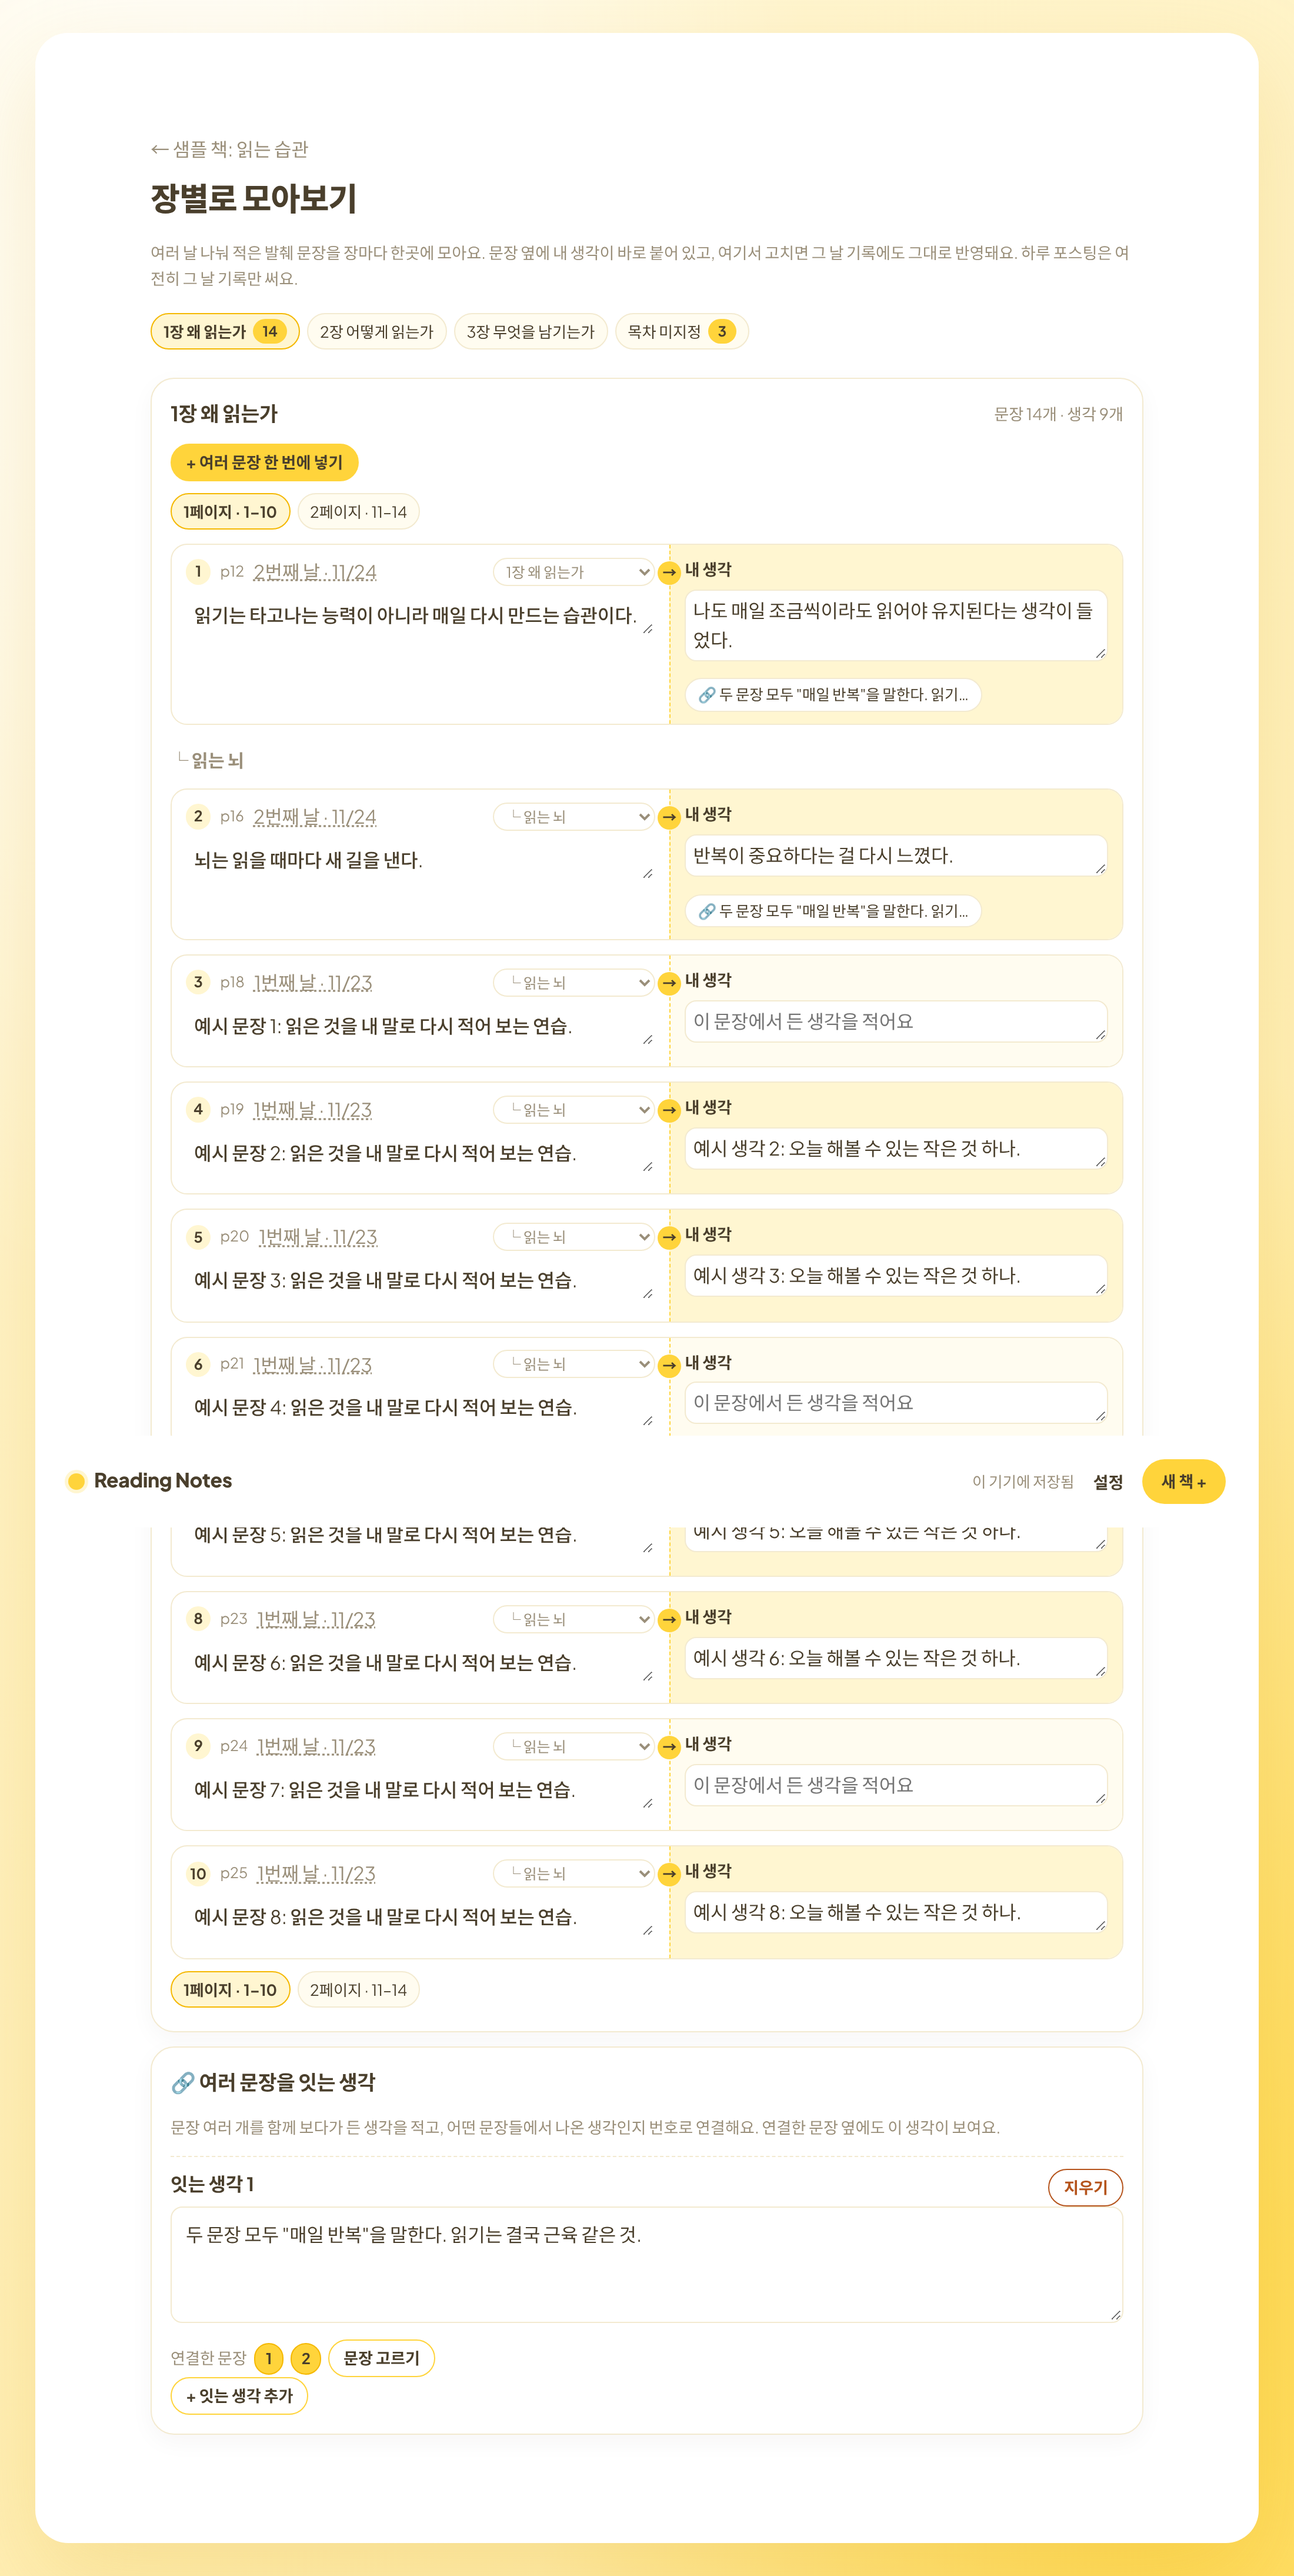
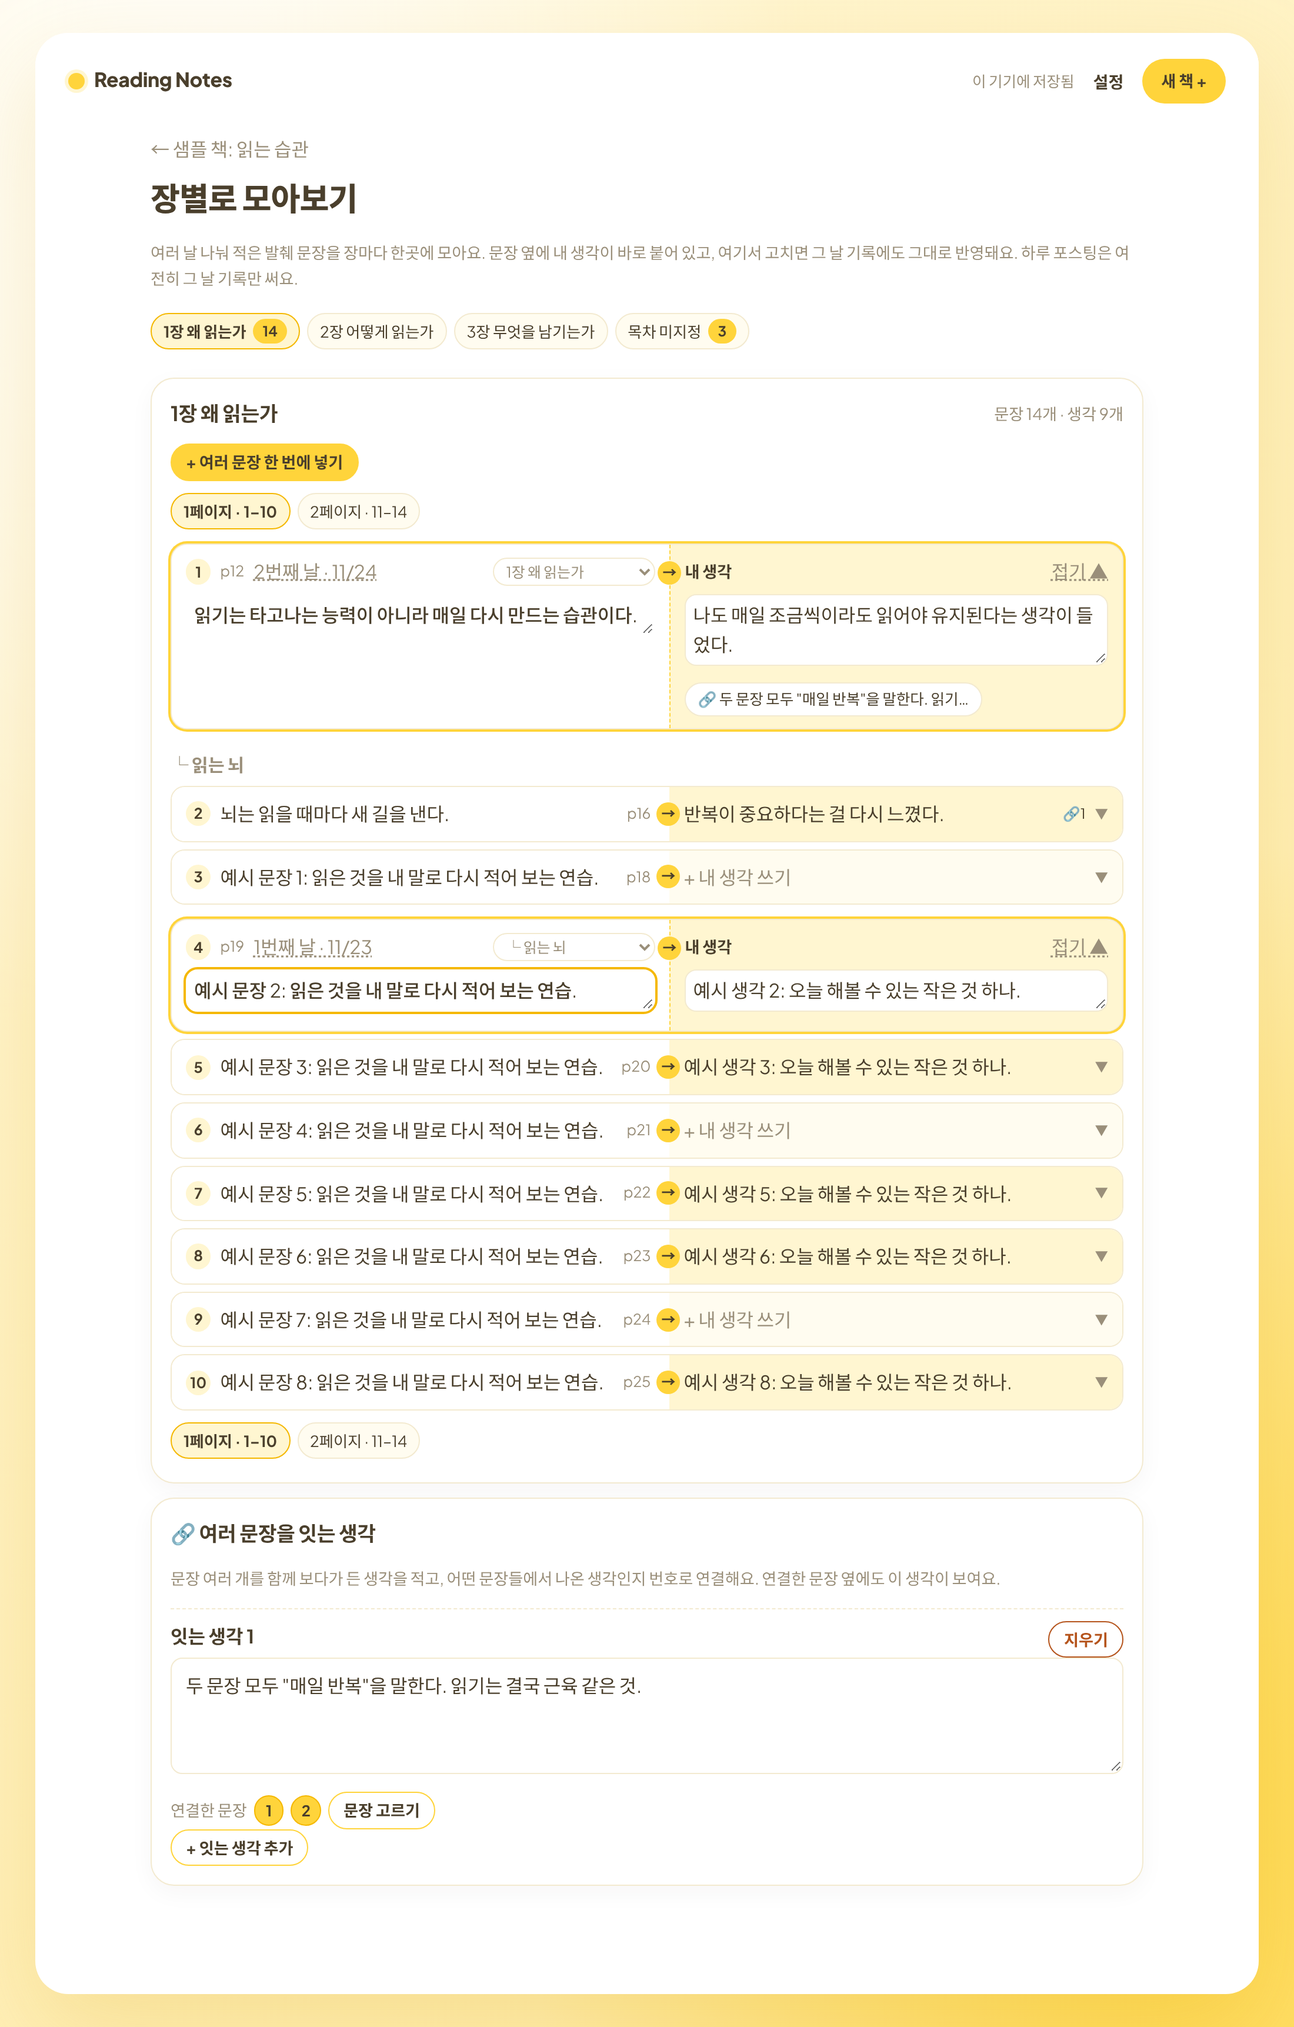
Fold each quote and thought to one line until tapped
Claude-Session: https://claude.ai/code/session_017JFzLenzseTduGvRqnW554

diff --git a/app.js b/app.js
@@ -6,7 +6,7 @@
   'use strict';
 
   // 새 버전을 올릴 때마다 바꾼다. 브라우저가 예전 파일을 쓰지 않게 하려고.
-  const APP_VERSION = '20261126m';
+  const APP_VERSION = '20261126n';
 
   const LS_STATE = 'rn.state.v2';
   const DATA_DIR = 'books';
@@ -1169,16 +1169,28 @@
     const pairHtml = x => {
       const q = x.q, id = q.id, n = numOf[id], linked = thoughtsOf(id);
       const sNo = sessions.indexOf(x.date) + 1;
-      return '<div class="pair" id="pair-' + esc(id) + '">' +
+      // 평소에는 한 줄씩 접어 두고, 누르면 펼쳐서 전체를 보고 고친다
+      if (!(view.openPairs || {})[id]) {
+        const line = v => esc(String(v || '').trim().replace(/\s*\n\s*/g, ' '));
+        return '<div class="pair compact" id="pair-' + esc(id) + '">' +
+          '<button type="button" class="pair-q pair-tap" data-popen="' + esc(id) + '|text" aria-expanded="false">' +
+          '<span class="qnum">' + n + '</span><span class="pair-line">' + (line(q.text) || '<span class="muted">(문장 없음)</span>') + '</span>' +
+          (q.page ? '<span class="qpage">' + esc(q.page) + '</span>' : '') + '</button>' +
+          '<button type="button" class="pair-t pair-tap' + (q.reason && q.reason.trim() ? '' : ' blank') + '" data-popen="' + esc(id) + '|reason" aria-expanded="false">' +
+          '<span class="pair-line">' + (line(q.reason) || '<span class="muted">+ 내 생각 쓰기</span>') + '</span>' +
+          (linked.length ? '<span class="pair-lc" title="이어진 생각">🔗' + linked.length + '</span>' : '') +
+          '<span class="qchev">▼</span></button></div>';
+      }
+      return '<div class="pair open" id="pair-' + esc(id) + '">' +
         '<div class="pair-q">' +
-        '<div class="pair-meta"><span class="qnum">' + n + '</span>' +
+        '<div class="pair-meta"><button type="button" class="qnum pair-fold" data-pclose="' + esc(id) + '" title="접기" aria-expanded="true">' + n + '</button>' +
         (q.page ? '<span class="qpage">' + esc(q.page) + '</span>' : '') +
         '<button type="button" class="linkish small" data-goday="' + x.date + '|' + x.i + '">' + (sNo ? sNo + '번째 날 · ' : '') + shortDate(x.date) + '</button>' +
         '<select class="pair-toc" data-pq="' + esc(id) + '" data-pf="tocId" aria-label="목차 바꾸기">' + tocOptions(book, q.tocId || '', '목차 미지정') + '</select></div>' +
         '<textarea class="grow pair-text" data-pq="' + esc(id) + '" data-pf="text" rows="1" aria-label="발췌 문장 ' + n + '">' + esc(q.text) + '</textarea>' +
         '</div>' +
         '<div class="pair-t' + (q.reason && q.reason.trim() ? '' : ' blank') + '">' +
-        '<div class="pair-meta"><strong class="small">내 생각</strong></div>' +
+        '<div class="pair-meta"><strong class="small">내 생각</strong><button type="button" class="linkish small pair-close" data-pclose="' + esc(id) + '">접기 ▲</button></div>' +
         '<textarea class="grow" data-pq="' + esc(id) + '" data-pf="reason" rows="1" placeholder="이 문장에서 든 생각을 적어요" aria-label="문장 ' + n + '에 대한 내 생각">' + esc(q.reason) + '</textarea>' +
         (linked.length ? '<div class="pair-links">' + linked.map(t => '<button type="button" class="link-chip" data-gothought="' + esc(t.id) + '">🔗 ' + esc(preview(t.text, 24) || '(비어 있는 생각)') + '</button>').join('') + '</div>' : '') +
         '</div></div>';
@@ -1259,12 +1271,23 @@
     }));
     const flash = el => { if (!el) return; el.scrollIntoView({ block: 'center', behavior: 'smooth' }); el.classList.remove('flash'); void el.offsetWidth; el.classList.add('flash'); };
     app.querySelectorAll('[data-gothought]').forEach(el => el.addEventListener('click', () => flash(document.getElementById('thought-' + el.dataset.gothought))));
+    app.querySelectorAll('[data-popen]').forEach(el => el.addEventListener('click', () => {
+      const [id, f] = el.dataset.popen.split('|');
+      view.openPairs = Object.assign({}, view.openPairs, { [id]: true }); keepScroll(render);
+      const ta = app.querySelector('#pair-' + id + ' textarea[data-pf="' + f + '"]');
+      if (ta) { ta.focus({ preventScroll: true }); ta.setSelectionRange(ta.value.length, ta.value.length); }
+    }));
+    app.querySelectorAll('[data-pclose]').forEach(el => el.addEventListener('click', () => {
+      view.openPairs = Object.assign({}, view.openPairs); delete view.openPairs[el.dataset.pclose]; keepScroll(render);
+    }));
     app.querySelectorAll('[data-cpage]').forEach(el => el.addEventListener('click', () => {
       view.cpage = Number(el.dataset.cpage); render(); document.querySelector('.chap-card').scrollIntoView({ block: 'start' });
     }));
     app.querySelectorAll('[data-gopair]').forEach(el => el.addEventListener('click', () => {
       const id = el.dataset.gopair, p = Math.floor((numOf[id] - 1) / QUOTES_PER_PAGE);
-      if (p !== cpage) { view.cpage = p; view.linkEdit = null; render(); }
+      view.openPairs = Object.assign({}, view.openPairs, { [id]: true });
+      if (p !== cpage) { view.cpage = p; view.linkEdit = null; }
+      keepScroll(render);
       flash(document.getElementById('pair-' + id));
     }));
     const at = document.getElementById('add-thought');

diff --git a/style.css b/style.css
@@ -429,3 +429,16 @@ p.over, .small.over { color: var(--warn); }
 }
 @media (max-width: 480px) { .bulk-opts { grid-template-columns: 1fr; } }
 .modal { max-height: calc(100vh - 32px); overflow-y: auto; }
+/* 접힌 줄: 한 줄만, 누르면 펼침 */
+.pair.compact { margin-top: 6px; border-radius: 12px; }
+.pair-tap { display: flex; align-items: center; gap: 8px; width: 100%; min-width: 0; text-align: left; font: inherit; color: var(--ink); cursor: pointer; border: 0; }
+.pair-q.pair-tap { background: var(--bg); }
+.pair-tap:hover .pair-line { color: var(--accent); text-decoration: underline dotted; }
+.pair-line { flex: 1; min-width: 0; overflow: hidden; text-overflow: ellipsis; white-space: nowrap; }
+.pair.compact .pair-t::before { top: 50%; margin-top: -10px; }
+.pair-lc { flex: none; font-size: .75rem; }
+.pair.open { box-shadow: 0 0 0 2px var(--yellow); }
+.pair-fold { border: 0; cursor: pointer; font-family: inherit; }
+.pair-close { margin-left: auto; }
+.pair-q.pair-tap { padding-right: 16px; }
+@media (max-width: 560px) { .pair.compact .qpage { display: none; } .pair.compact .pair-t { padding-left: 16px; } }

diff --git a/index.html b/index.html
@@ -8,7 +8,7 @@
   <link rel="preconnect" href="https://fonts.googleapis.com">
   <link rel="preconnect" href="https://fonts.gstatic.com" crossorigin>
   <link href="https://fonts.googleapis.com/css2?family=Plus+Jakarta+Sans:wght@400;600;700;800&family=Noto+Sans+KR:wght@400;500;700;800&display=swap" rel="stylesheet">
-  <link rel="stylesheet" href="style.css?v=20261126m">
+  <link rel="stylesheet" href="style.css?v=20261126n">
 </head>
 <body>
   <div class="sheet">
@@ -22,7 +22,7 @@
   </header>
   <main id="app"></main>
   </div>
-  <script src="formats.js?v=20261126m"></script>
-  <script src="app.js?v=20261126m"></script>
+  <script src="formats.js?v=20261126n"></script>
+  <script src="app.js?v=20261126n"></script>
 </body>
 </html>

diff --git a/README.md b/README.md
@@ -28,7 +28,7 @@
 책 화면의 📑 목차 칸이나 발췌 문장 칸에서 **📖 장별로 모아보기**를 누르면, 여러 날에 나눠 적은 발췌 문장이 장(상위 목차)마다 한곳에 모여요.
 
 - 문장마다 바로 오른쪽에 **내 생각**이 붙어 있어요. 기존의 "고른 이유" 칸과 같은 칸이라 여기서 고치면 그 날 기록에도 반영돼요.
-- 왼쪽에 발췌 문장, 오른쪽에 내 생각이 나란히 보여요(휴대폰도 같아요). 하위 목차가 있으면 그 아래로 나눠 보여주고, 쪽수 순서로 정렬해요. 10개가 넘으면 페이지로 넘겨요.
+- 왼쪽에 발췌 문장, 오른쪽에 내 생각이 나란히 보여요(휴대폰도 같아요). 하위 목차가 있으면 그 아래로 나눠 보여주고, 쪽수 순서로 정렬해요. 10개가 넘으면 페이지로 넘겨요. 평소에는 한 줄씩 접혀 있고, 누르면 펼쳐져 전체를 보고 고칠 수 있어요.
 - **여러 문장 한 번에 넣기**: 빈 줄로 문장을 나누고, `→`로 시작하는 줄은 그 문장에 대한 내 생각이 돼요. `p45`나 `45쪽`을 앞에 적으면 쪽수가 돼요. 어느 날 읽은 문장인지 골라서 그 날 기록에 들어가요.
 - **여러 문장을 잇는 생각**: 여러 문장을 함께 보며 든 생각을 적고 문장 번호로 연결해요. 연결한 문장 옆에도 그 생각이 보여요. 하루 포스팅에는 들어가지 않아요.
 - 목차가 없는 문장은 **목차 미지정**에 모여요. 목차 줄 끝에 `| 시작 쪽수`(예: `1장 읽는 뇌 | 15`)를 적어 두면 **쪽수로 목차 자동 연결**로 한 번에 장을 정할 수 있어요.
